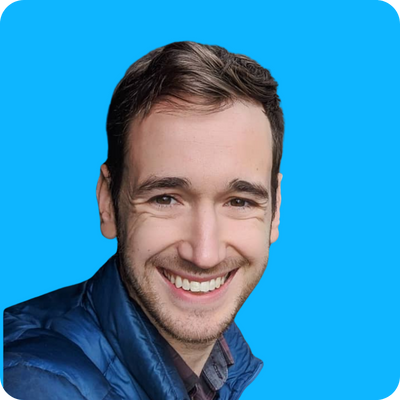
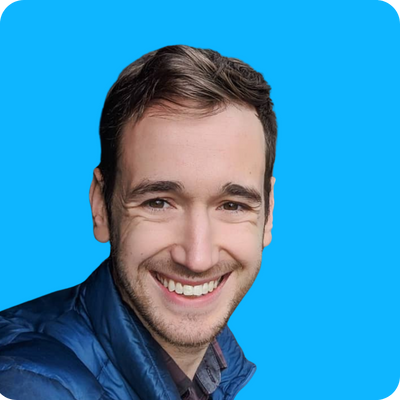
keynotes page updated

Changed region(s): [[0.0, 0.09, 0.72, 1.0]]

diff --git a/themes/airflowsummit/layouts/keynotes/list.html b/themes/airflowsummit/layouts/keynotes/list.html
@@ -1,45 +1,22 @@
 {{ define "main" }}
 
-<div>
+<div class="container text-center mt-4">
 
-    <div class="container mt-2">
+    <div class="container text-center">
+        
         <div class="row">
-            <div class="col-lg-7">
-                {{ .Content }}
+            {{ range where (where .Site.Pages.ByTitle "Type" "sessions") ".Params.keynote2025" true }}
+          <div class="col-md-4">
+            <div class="mb-3">
+                <a href="{{.Permalink}}">
+                    <img src="{{ with .Params.images }}{{ index . 0 | relURL }}{{else}}{{ .Params.Image | relURL }}{{ end }}" alt="{{ .Title }}" class="img-fluid shadow">
+                </a>
             </div>
-            <div class="col-lg-5">
-                <img src="/images/blog/keynotes.png" class="img-fluid mb-4">
-            </div>
+          </div>
+          {{ end }}
         </div>
-    </div>
+      </div>
+<br><br>
 </div>
-
-<section class="keynotes-speakers">
-    <br>
-    <div>
-        <h2 class="featured-keynote-title text-center">Featured Keynote Speakers</h2>
-    </div>
-    <br>
-    <div class="container text-center mt-4">
-        <div class="speaker-strip">
-            {{ range where (where (where .Site.Pages.ByTitle "Type" "speakers") "Kind" "term") "Params.featured" true }}
-            <div class="speaker-item">
-                <div class="speaker-block">
-                    <div class="headshot-box">
-                        <a href="{{.Permalink}}">
-                            <img src="{{ with .Params.images }}{{ index . 0 | relURL }}{{else}}{{ .Params.Image | relURL }}{{ end }}" alt="{{ .Title }}" class="img-fluid shadow">
-                        </a>
-                    </div>
-                    <div class="speaker-info text-center">
-                        <h4 class="mb-0 mt-3"><a href="{{.Permalink | relURL }}">{{ .Title }}</a></h4>
-                        <p class="speaker-info-description">{{ .Params.Designation}}</p>
-                    </div>
-                </div>
-            </div>
-            {{ end }}
-        </div>
-        <br><br>
-    </div>
-</section>
 
 {{ end }}

diff --git a/themes/airflowsummit/layouts/sessions/single.html b/themes/airflowsummit/layouts/sessions/single.html
@@ -50,7 +50,7 @@
               {{ $time_start := .Params.time_start | time }}
               {{ $time_end := .Params.time_end | time }}            
               {{ if lt now $time_start }}
-              <div class="d-flex align-items-center">
+              <!--<div class="d-flex align-items-center">
                 <div class="pe-4">
                   <em>{{ with .Params.time_start | time }}{{ .Format "Jan-02 15:04" }}{{ end }}-{{ with .Params.time_end | time }}{{ .Format "15:04" }}{{ end }}{{with .Params.room}} in {{.}}{{ end }}</em>              
                 </div>
@@ -64,7 +64,7 @@
                   <span class="description">{{.Content}}</span>
                   <span class="location">{{.Params.room}}</span>
                 </div>
-              </div>  
+              </div>  -->
               {{ else }}
                 {{ if ne $time_start.Year 2023 }}
               <em>Presented at Airflow Summit {{ $time_start.Format "2006" }}</em>

diff --git a/themes/airflowsummit/layouts/speakers/list.html b/themes/airflowsummit/layouts/speakers/list.html
@@ -9,10 +9,10 @@
       {{ range .Data.Pages.ByTitle }}
       {{ if in .Params.events 2025 }}
       <div class="speaker-item">
-        <div class="speaker-block">
+        <div class="speaker-block"> 
           <div class="headshot-box">
             <a href="{{.Permalink}}">
-              <img src="{{ with .Params.images }}{{ index . 0 | relURL }}{{else}}{{ .Params.Image | relURL }}{{ end }}" alt="{{ .Title }}" class="img-fluid shadow">
+              <img src="{{ with .Params.images }}{{ index . 0 | relURL }}{{else}}{{ .Params.Image | relURL }}{{ end }}" alt="{{ .Title }}" class="img-fluid">
             </a>
           </div>
           <div class="speaker-info text-center">

diff --git a/content/sessions/2025/introducing-apache-airflow-3.md b/content/sessions/2025/introducing-apache-airflow-3.md
@@ -1,0 +1,37 @@
+---
+title: "Introducing Apache Airflow® 3 – The Next Evolution in Orchestration"
+slug: introducing-apache-airflow-3
+speakers:
+ - Amogh Desai
+ - Ash Berlin-Taylor
+ - Brent Bovenzi
+ - Bugra Ozturk
+ - Daniel Standish
+ - Jed Cunningham
+ - Jens Scheffler
+ - Kaxil Naik
+ - Pierre Jeambrun
+ - Tzu-ping Chung
+ - Vikram Koka
+ - Vincent Beck
+time_start: 2025-09-10 09:10:00
+time_end: 2025-09-10 10:05:00
+room: 
+track: 
+day: 
+timeslot: 
+gridarea: 
+images: 
+ - /images/sessions/2025/keynotes/IntroducingApaAirf3.png
+slides:
+video: 
+keynote2025: true
+---
+
+Apache Airflow® 3 is here, bringing major improvements to data orchestration. In this keynote, core Airflow contributors will walk through key enhancements that boost flexibility, efficiency, and user experience.
+
+Vikram Koka will kick things off with an overview of Airflow 3, followed by deep dives into DAG versioning (Jed Cunningham), enhanced backfilling (Daniel Standish), and a modernized UI (Brent Bovenzi & Pierre Jeambrun).
+
+Next, Ash Berlin-Taylor, Kaxil Naik, and Amogh Desai will introduce the Task Execution Interface and Task SDK, enabling tasks in any environment and language. Jens Scheffler will showcase the Edge Executor, while Tzu-ping Chung and Vincent Beck will demo event-driven scheduling and data assets. Finally, Buğra Öztürk will unveil CLI enhancements for automation and debugging.
+
+This keynote sets the stage for Airflow 3—don’t miss the chance to learn from the experts shaping the future of workflow orchestration!

diff --git a/content/sessions/2025/new-tools-same-craft.md b/content/sessions/2025/new-tools-same-craft.md
@@ -1,0 +1,31 @@
+---
+title: "New Tools, Same Craft: The Developer's Toolbox in 2025New Tools, Same Craft: The Developer's Toolbox in 2025"
+slug: new-tools-same-craft
+speakers:
+ - Brooke Jamieson
+time_start: 2025-10-07 09:10:00
+time_end: 2025-10-07 10:05:00
+room: 
+track: 
+day: 
+timeslot: 
+gridarea: 
+images: 
+ - /images/sessions/2025/keynotes/NewTools.png
+slides:
+video: 
+keynote2025: true
+---
+
+
+Our development workflows look dramatically different than they did a year ago. Code generation, automated testing, and AI-assisted documentation tools are now part of many developers' daily work.
+Yet as these tools reshape how we code, I've noticed something worth examining: while our toolbox is changing rapidly, the core of being a good developer hasn't. Problem-solving, collaborative debugging, and systems thinking remain as crucial as ever.
+
+In this keynote, I'll share observations about:
+
+* Which parts of our workflow are genuinely enhanced by new tools
+* The development skills that continue to separate good code from great code
+* How teams can collaborate effectively when everyone's tools are evolving
+* What Airflow's journey teaches us about balancing innovation with stability
+
+No hype or grand pronouncements—just an honest look at incorporating new tools while preserving the craft that makes us developers in the first place.

diff --git a/content/sessions/2025/from-dags-to-insights.md b/content/sessions/2025/from-dags-to-insights.md
@@ -1,0 +1,20 @@
+---
+title: "From DAGs to Insights: Business-Driven Airflow Use Cases"
+slug: from-dags-to-insights
+speakers:
+ - Tala Karadsheh
+time_start: 2025-10-07 09:10:00
+time_end: 2025-10-07 10:05:00
+room: 
+track: 
+day: 
+timeslot: 
+gridarea: 
+images: 
+ - /images/sessions/2025/keynotes/dags-to-insgishts.png
+slides:
+video: 
+keynote2025: true
+---
+
+Airflow is integral to GitHub's data and insight generation. This session dives into use cases from GitHub where key business decisions are driven, at the root, with the help of Airflow. The session will also highlight how both GitHub and Airflow celebrate, promote, and nurture OSS innovations in their own ways.

diff --git a/archetypes/sessions.md b/archetypes/sessions.md
@@ -3,8 +3,8 @@ title: "{{ replace .Name "-" " " | title }}"
 slug: 
 speakers:
 
-time_start: 2024-09-10 09:10:00
-time_end: 2024-09-10 10:05:00
+time_start: 2025-10-07 09:10:00
+time_end: 2025-10-07 10:05:00
 room: 
 track: 
 day: 

diff --git a/content/sessions/2025/_index.md b/content/sessions/2025/_index.md
@@ -1,0 +1,7 @@
+---
+title: Airflow Summit 2025 sessions
+time_start: 2025-04-28T09:00:00.000Z
+---
+
+### These are the confirmed sessions for Airflow Summit 2025.
+
